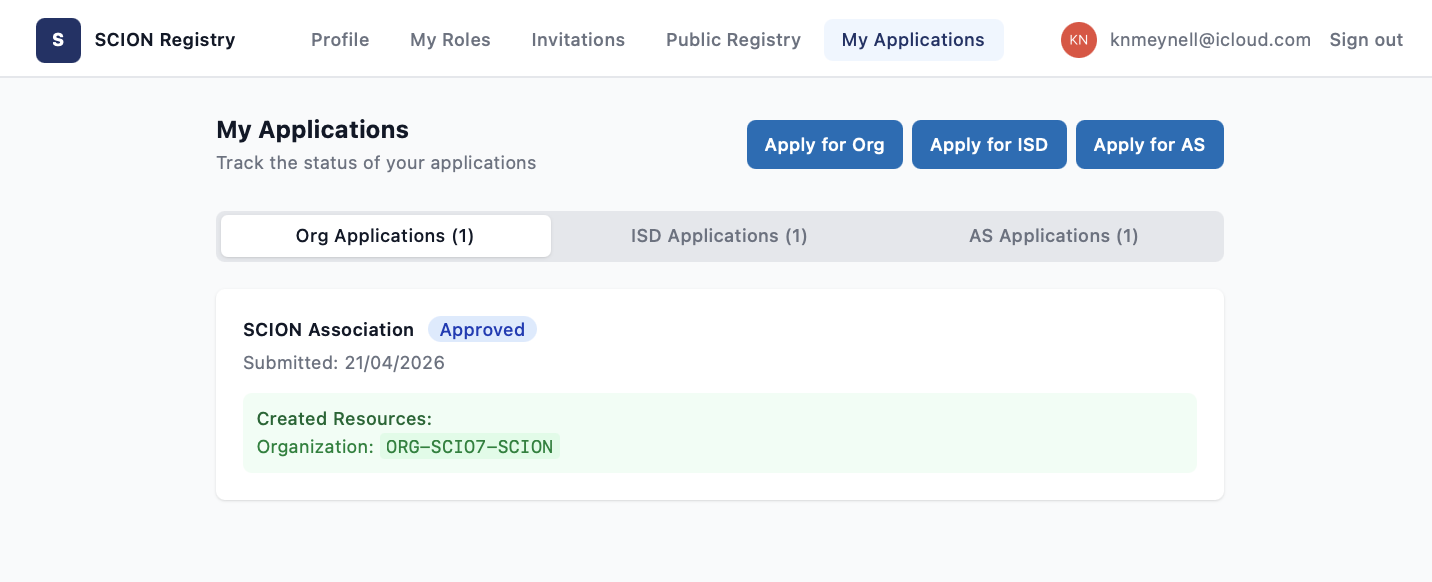
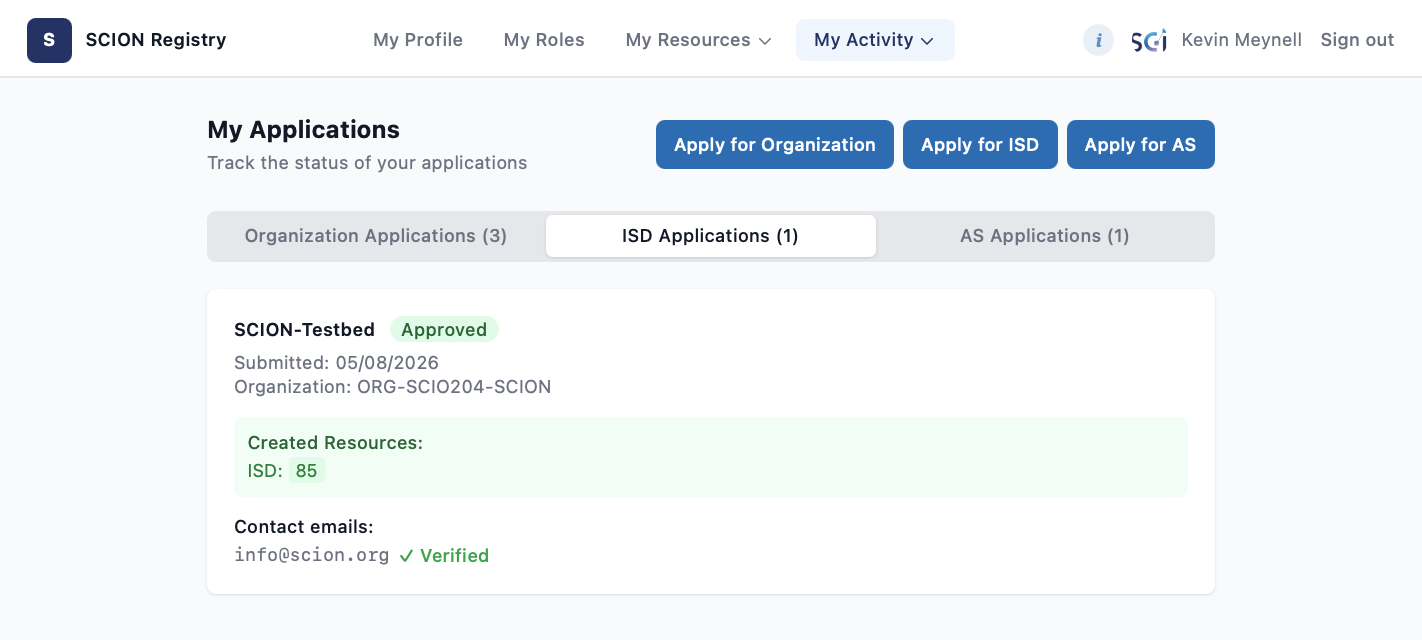
Added ISD and AS screenshots

diff --git a/doc/tutorials/registry.rst b/doc/tutorials/registry.rst
@@ -76,7 +76,7 @@ Once your personal Profile has been created, you will be assigned a NIC handle (
 
 **Step 3**:
 
-The next step is to create your Organization profile. Click on ``My Activity`` and ``Applications`` the in the top menu:
+The next step is to create your Organization profile. Click on ``My Activity`` then ``Applications`` in the top menu:
 
 .. figure:: registry/applications.png
    :width: 100 %
@@ -90,11 +90,17 @@ Then click on ``Apply for Organization`` to complete and submit your Organizatio
 
 You need to indicate whether your organization is a SCION Association Member, whether you wish to subscribe to the SCION mailing list, and you must agree to the Terms and Conditions.
 
-You also need to provide email addresses for the Admin and Technical Contacts. The same email address may be used - which may also be the same as the organizational email address - but using a personal email address is not recommended as these addresses are used to create the Admin and Technical roles to which different Personal profiles may be linked.
+You also need to provide email addresses for the *Admin Contact* and *Technical Contact*. The same email address may be used - which may also be the same as the organizational email address - but using a personal email address is not recommended as these addresses are used to create the Admin and Technical roles to which different Personal profiles may be linked.
 
-The person creating the Organization profile will automatically become a Maintainer, Admin Contact and Tech Contact for this, but you can also link additional Personal profiles to each of these roles. You can invite someone to create an account by entering their email address, or if they have already created a Personal profile, by searching for and entering their handle.
+The person creating the Organization profile will automatically become a *Maintainer*, *Admin Contact* and *Tech Contact* for this, but you can also link additional Personal profiles to each of these roles. You can invite someone to create an account by entering their email address, or if they have already created a Personal profile, by searching for and entering their NIC handle.
 
 .. figure:: registry/organization-2.png
+   :width: 100 %
+   :figwidth: 100 %
+   
+You can also invite additional contacts at any by clicking on ``My Activity`` then ``Invitations`` in the top menu:
+
+.. figure:: registry/invitations.png
    :width: 100 %
    :figwidth: 100 %
 
@@ -115,6 +121,13 @@ If you click on ``My Roles`` in the top menu, you can view the roles (*Admin Con
 .. figure:: registry/myroles.png
    :width: 100 %
    :figwidth: 100 %
+   
+   
+You can further check your Organization(s) by clicking on ``My Resources``and then ``Organizations`` in the top menu:
+
+.. figure:: registry/my-orgs.png
+   :width: 100 %
+   :figwidth: 100 %
 
 Requesting SCION AS numbers
 ---------------------------
@@ -131,7 +144,13 @@ Please note that assignments incur fees upon approval (starting from 1 January 2
 
 **Step 1**:
 
-To apply for a SCION AS number, click on ``My Applications`` in the top menu, followed by ``Apply for SCION AS``. Then complete the request form:
+To apply for a SCION AS number, click on ``My Activity`` then ``Applications`` in the top menu:
+
+.. figure:: registry/applications.png
+   :width: 100 %
+   :figwidth: 100 %
+
+Then click on ``Apply for AS`` and complete the request form:
 
 .. figure:: registry/apply-for-as.png
    :width: 100 %
@@ -153,9 +172,9 @@ If you are requesting a block of SCION AS numbers, please select ``SCION-Native 
 
 **Step 3**:
 
-The remaining step is to assign the *Admin Contacts* and *Technical Contacts*:
+The remaining step is to assign the *Admin Contacts* and *Technical Contacts*. You must agree to the *Contract for SCION Registry Services*:
 
-.. figure:: registry/contacts.png
+.. figure:: registry/as-contacts.png
    :width: 100 %
    :figwidth: 100 %
 
@@ -177,7 +196,7 @@ Once payment has been received by the SCION Association, or if no payment is due
    :width: 100 %
    :figwidth: 100 %
 
-You can further check your SCION AS number assignments by clicking on ‘Public Registry’ in the top menu, and then ‘ASes’:
+You can further check your SCION AS number assignments by clicking on ``My Resources``and then ``SCION AS numbers`` in the top menu:
 
 .. figure:: registry/as-registered.png
    :width: 100 %
@@ -190,13 +209,31 @@ An ISD number is used to identify a group of SCION ASes that share a common purp
 
 However, if your organization is a Voting Member of an ISD and is designated to be the holder of the ISD number required to identify it, you can also use the SCION Registry portal to apply for one in accordance with the `SCION Registry Policy <https://www.scion.org/wp-content/uploads/2025/10/SCION-Registry-Policy.pdf>`_.
 
-To apply for a ISD number, click on ``My Applications`` in the top menu, followed by ``Apply for ISD``. Then complete the request form:
+To apply for an ISD number, click on ``My Activity`` then ``Applications`` in the top menu:
+
+.. figure:: registry/applications.png
+   :width: 100 %
+   :figwidth: 100 %
+   
+Then click on ``Apply for ISD`` and complete the request form:
 
 .. figure:: registry/apply-for-isd.png
    :width: 100 %
    :figwidth: 100 %
+   
+The ISD's Trusted Root Configuration (TRC) can also be referenced as a link or uploaded to the registry.
+
+The remaining step is to assign the *Admin Contacts* and *Technical Contacts*. You must also agree to the *Contract for SCION Registry Services*:
+
+.. figure:: registry/isd-contacts.png
+   :width: 100 %
+   :figwidth: 100 %
 
 When your ISD number application has been submitted, you will receive a message that this is pending. Applications must be approved by the SCION Association, which will normally happen within 1-3 working days.
+
+.. figure:: registry/isd-pending.png
+   :width: 100 %
+   :figwidth: 100 %
 
 Once your ISD number application has been checked and approved by the SCION Association, you will receive an email notification and your application will now show as *Approved, awaiting payment* if payment is due.
 
@@ -209,3 +246,10 @@ Once payment has been received by the SCION Association, or if no payment is due
 .. figure:: registry/isd-approved.png
    :width: 100 %
    :figwidth: 100 %
+   
+You can further check your ISD number assignments by clicking on ``My Resources``and then ``ISD numbers`` in the top menu:
+
+.. figure:: registry/isd-registered.png
+   :width: 100 %
+   :figwidth: 100 %
+
